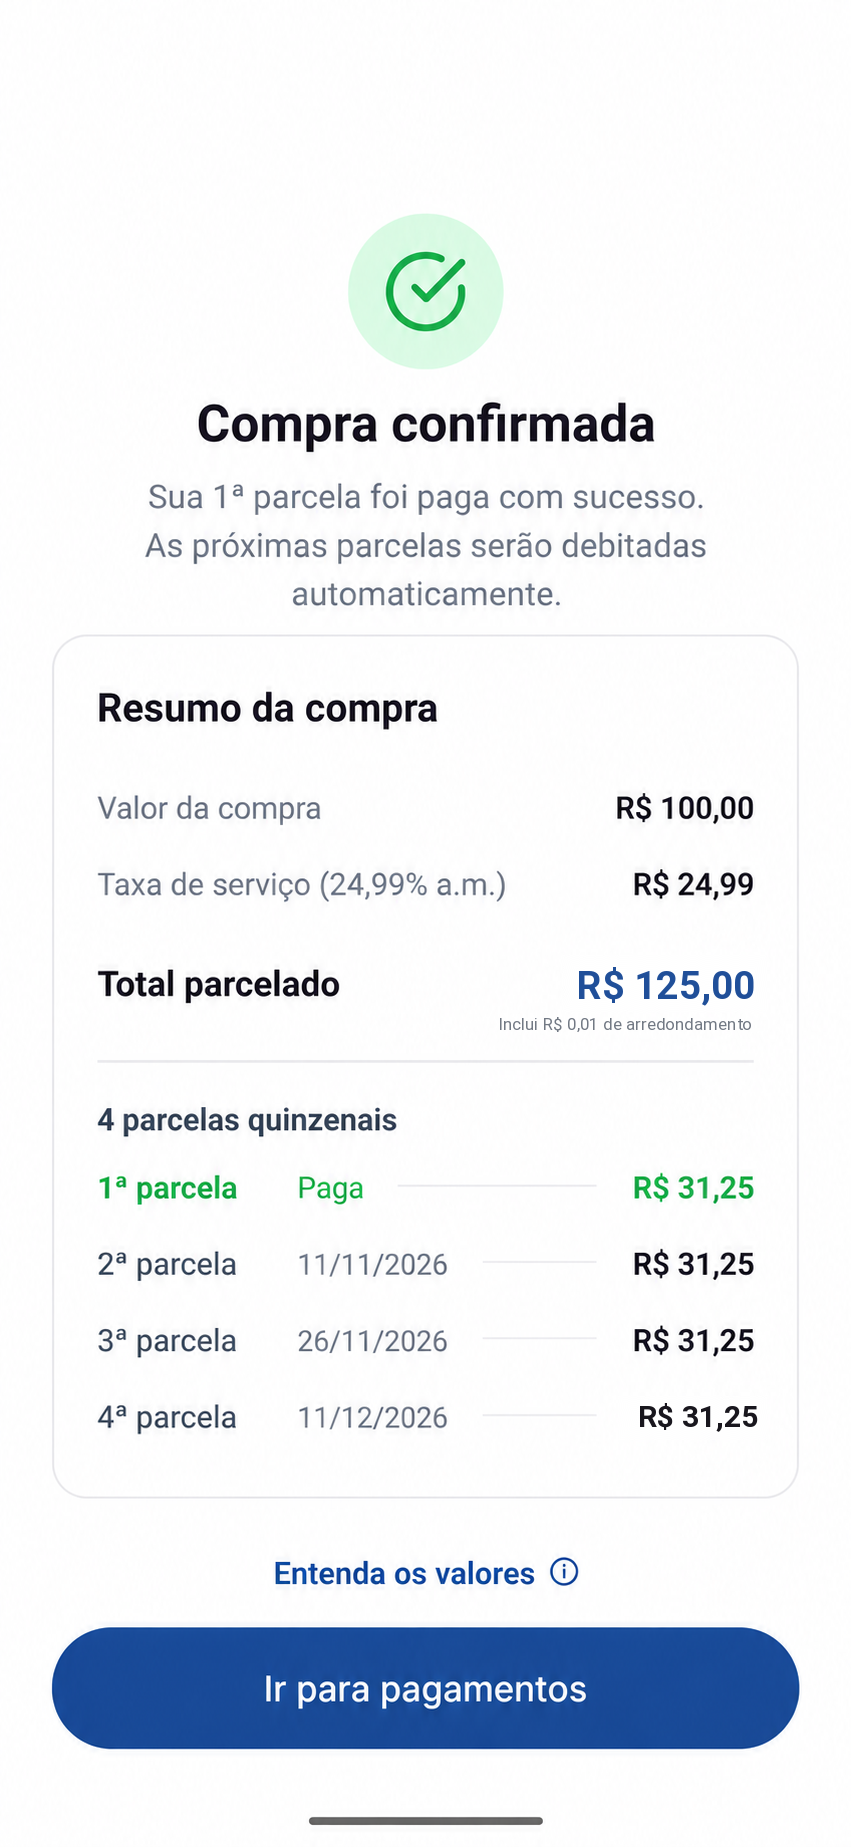
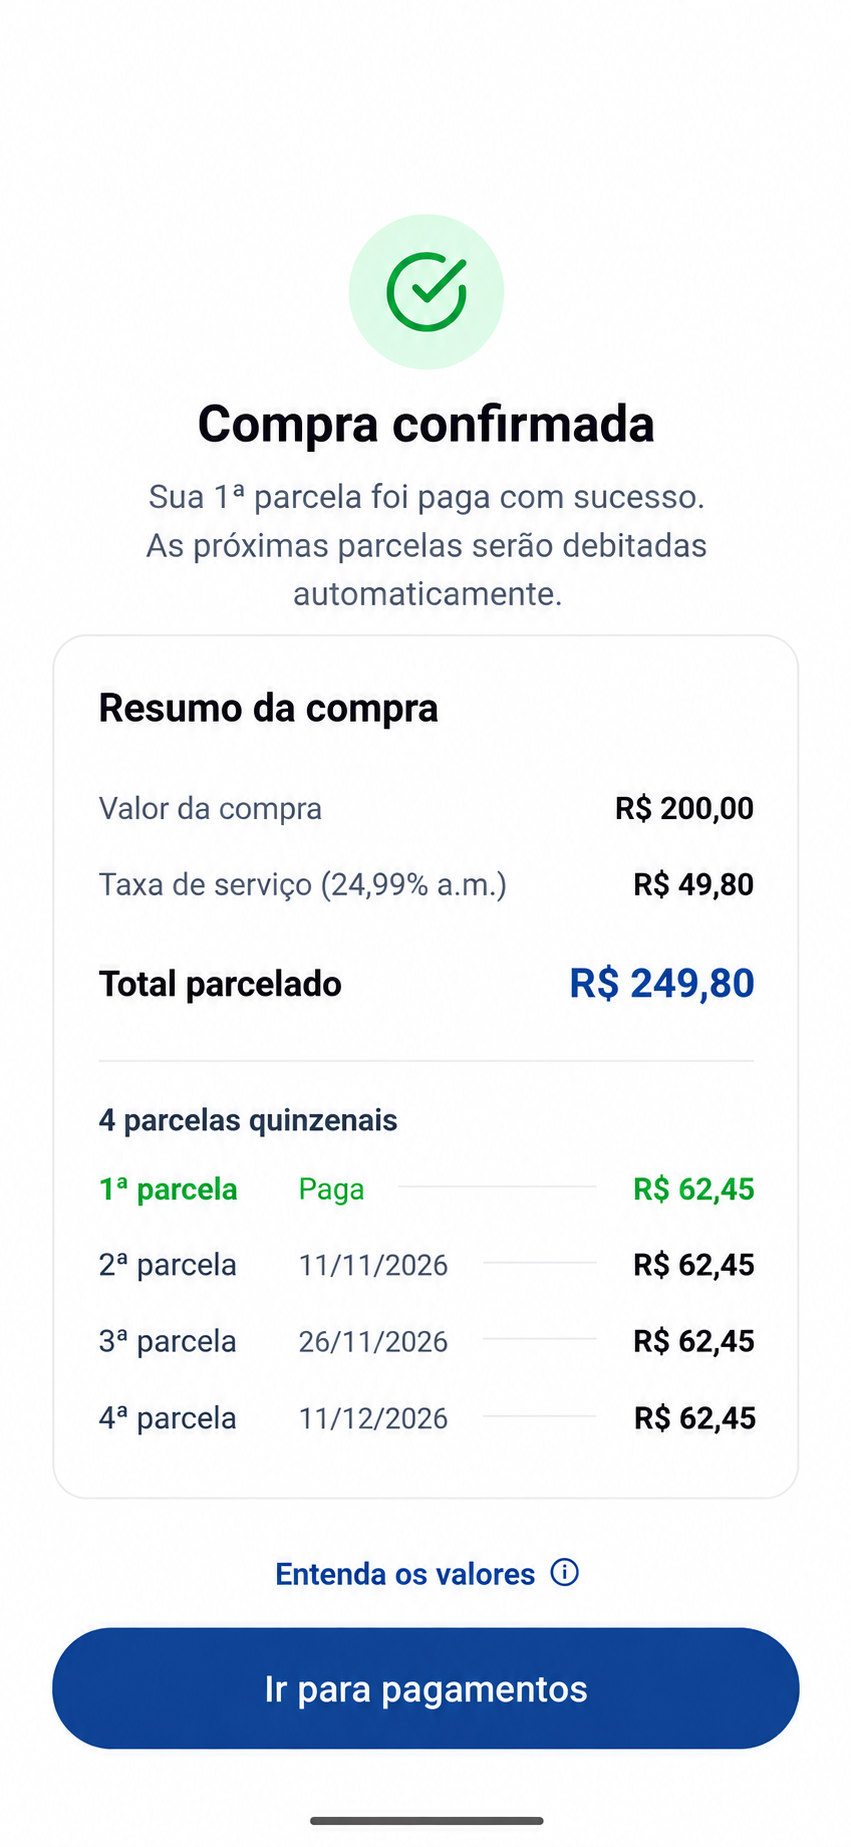
improves

diff --git a/src/app/globals.css b/src/app/globals.css
@@ -355,7 +355,7 @@ h1{font-size:48px;line-height:1.02;letter-spacing:-.04em}h2{font-size:34px;line-
 .phone-back{display:none}
 .phone{width:280px}
 .phone-hero{width:250px}
-.chip-a{left:8px;top:-36px}.chip-b{display:none}
+.chip-a{left:50%;right:auto;width:max-content;translate:-50% 0;top:-36px}.chip-b{display:none}
 .sh{margin-bottom:40px}.sh-row{flex-direction:column;align-items:flex-start;gap:12px}
 .how-grid{gap:0}
 .how-stage{display:none}
@@ -395,7 +395,7 @@ h1{font-size:48px;line-height:1.02;letter-spacing:-.04em}h2{font-size:34px;line-
 @media (max-width:768px){.hero-in,.how-grid,.faq-in{grid-template-columns:minmax(0,1fr)}}
 .chip-a{left:-145px;top:86px}.chip-b{left:calc(100% - 4px);right:auto;bottom:108px}
 .pend em{white-space:nowrap}
-@media (max-width:768px){.chip-a{left:8px;top:-36px}.chip-b{display:none}
+@media (max-width:768px){.chip-a{left:50%;right:auto;width:max-content;translate:-50% 0;top:-36px}.chip-b{display:none}
 .stores{display:grid;grid-template-columns:repeat(2,minmax(0,1fr));gap:8px;width:100%;max-width:360px}
 .store{gap:8px;padding:10px 12px}.store svg{width:20px;height:20px}.store b{font-size:14px}
 .wl-msg,.wl-legal{margin-left:0;margin-right:0}.wl .btn{text-wrap:balance}

diff --git a/src/components/home-page.tsx b/src/components/home-page.tsx
@@ -376,7 +376,7 @@ export function HomePage() {
               </div>
               <div className="chip chip-b">
                 <small>1ª parcela</small>
-                <b>R$ 32,48</b>
+                <b>R$ 62,45</b>
               </div>
             </div>
             <div className="phone phone-back phone-back-r" aria-hidden="true">
